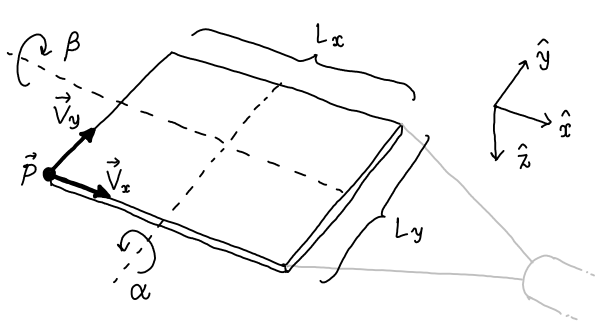
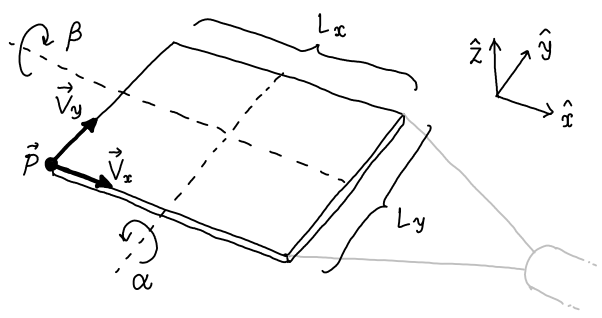
teoria: coinc e tempo morto

diff --git a/esp-1-flusso_di_raggi_cosmici/relazione/coinctm.tex b/esp-1-flusso_di_raggi_cosmici/relazione/coinctm.tex
@@ -1,0 +1,10 @@
+\subsection{Coincidenze casuali e tempo morto}
+
+Per tenere conto con simulazioni o calcoli delle coincidenze casuali e dei tempi morti,
+trattiamo i segnali digitali come forme perfettamente rettangolari.
+Assegnamo la distribuzione esponenziale al tempo tra un \emph{evento} e il successivo.
+Un evento genera un fronte di salita se il tempo trascorso dall'ultimo fronte di salita
+è minore del tempo morto.
+Il segnale rimane alto per una certa \emph{durata del segnale} fissata.
+Il tempo morto è almeno la durata del segnale.
+I segnali fanno coincidenza quando sono entrambi alti per almeno un certo \emph{tempo di coincidenza}.

diff --git a/esp-1-flusso_di_raggi_cosmici/relazione/geometria.tex b/esp-1-flusso_di_raggi_cosmici/relazione/geometria.tex
@@ -12,8 +12,6 @@
 
 Esponiamo la modellizzazione geometrica dell'apparato ai fini di calcoli e simulazioni
 (vedi \autoref{fig:geometriadef}).
-\marginpar{Correggere la figura, l'asse $z$ è verso l'alto nel codice.\\
-Gli angoli $\alpha$ e $\beta$ sono gli angoli di Eulero della lastra?}
 Consideriamo ogni lastra di scintillatore come un parallelepipedo.
 Teniamo conto dei \emph{disallineamenti} cioè della posizione arbitraria nello spazio delle lastre,
 supponendo però che sia poco diversa da quella ideale di lastre orizzontali, rettangolari e allineate verticalmente.

diff --git a/esp-1-flusso_di_raggi_cosmici/relazione/relazione.tex b/esp-1-flusso_di_raggi_cosmici/relazione/relazione.tex
@@ -35,6 +35,12 @@ Esperienza 1. Flusso di raggi cosmici (base)}
 
 \maketitle
 
+\begin{abstract}
+	Misuriamo il flusso di muoni!!
+\end{abstract}
+
+\tableofcontents
+
 \input{introduzione.tex}
 
 \section{Teoria}
@@ -42,5 +48,12 @@ Esperienza 1. Flusso di raggi cosmici (base)}
 \input{geometria.tex}
 
 \input{elettroni_vs_muoni.tex}
+
+\input{coinctm.tex}
+
+\section{Misura e analisi}
+
+\input{geometriamis.tex}
+
 
 \end{document}

diff --git a/esp-1-flusso_di_raggi_cosmici/relazione/geometriamis.tex b/esp-1-flusso_di_raggi_cosmici/relazione/geometriamis.tex
@@ -1,0 +1,1 @@
+\subsection{Geometria}
